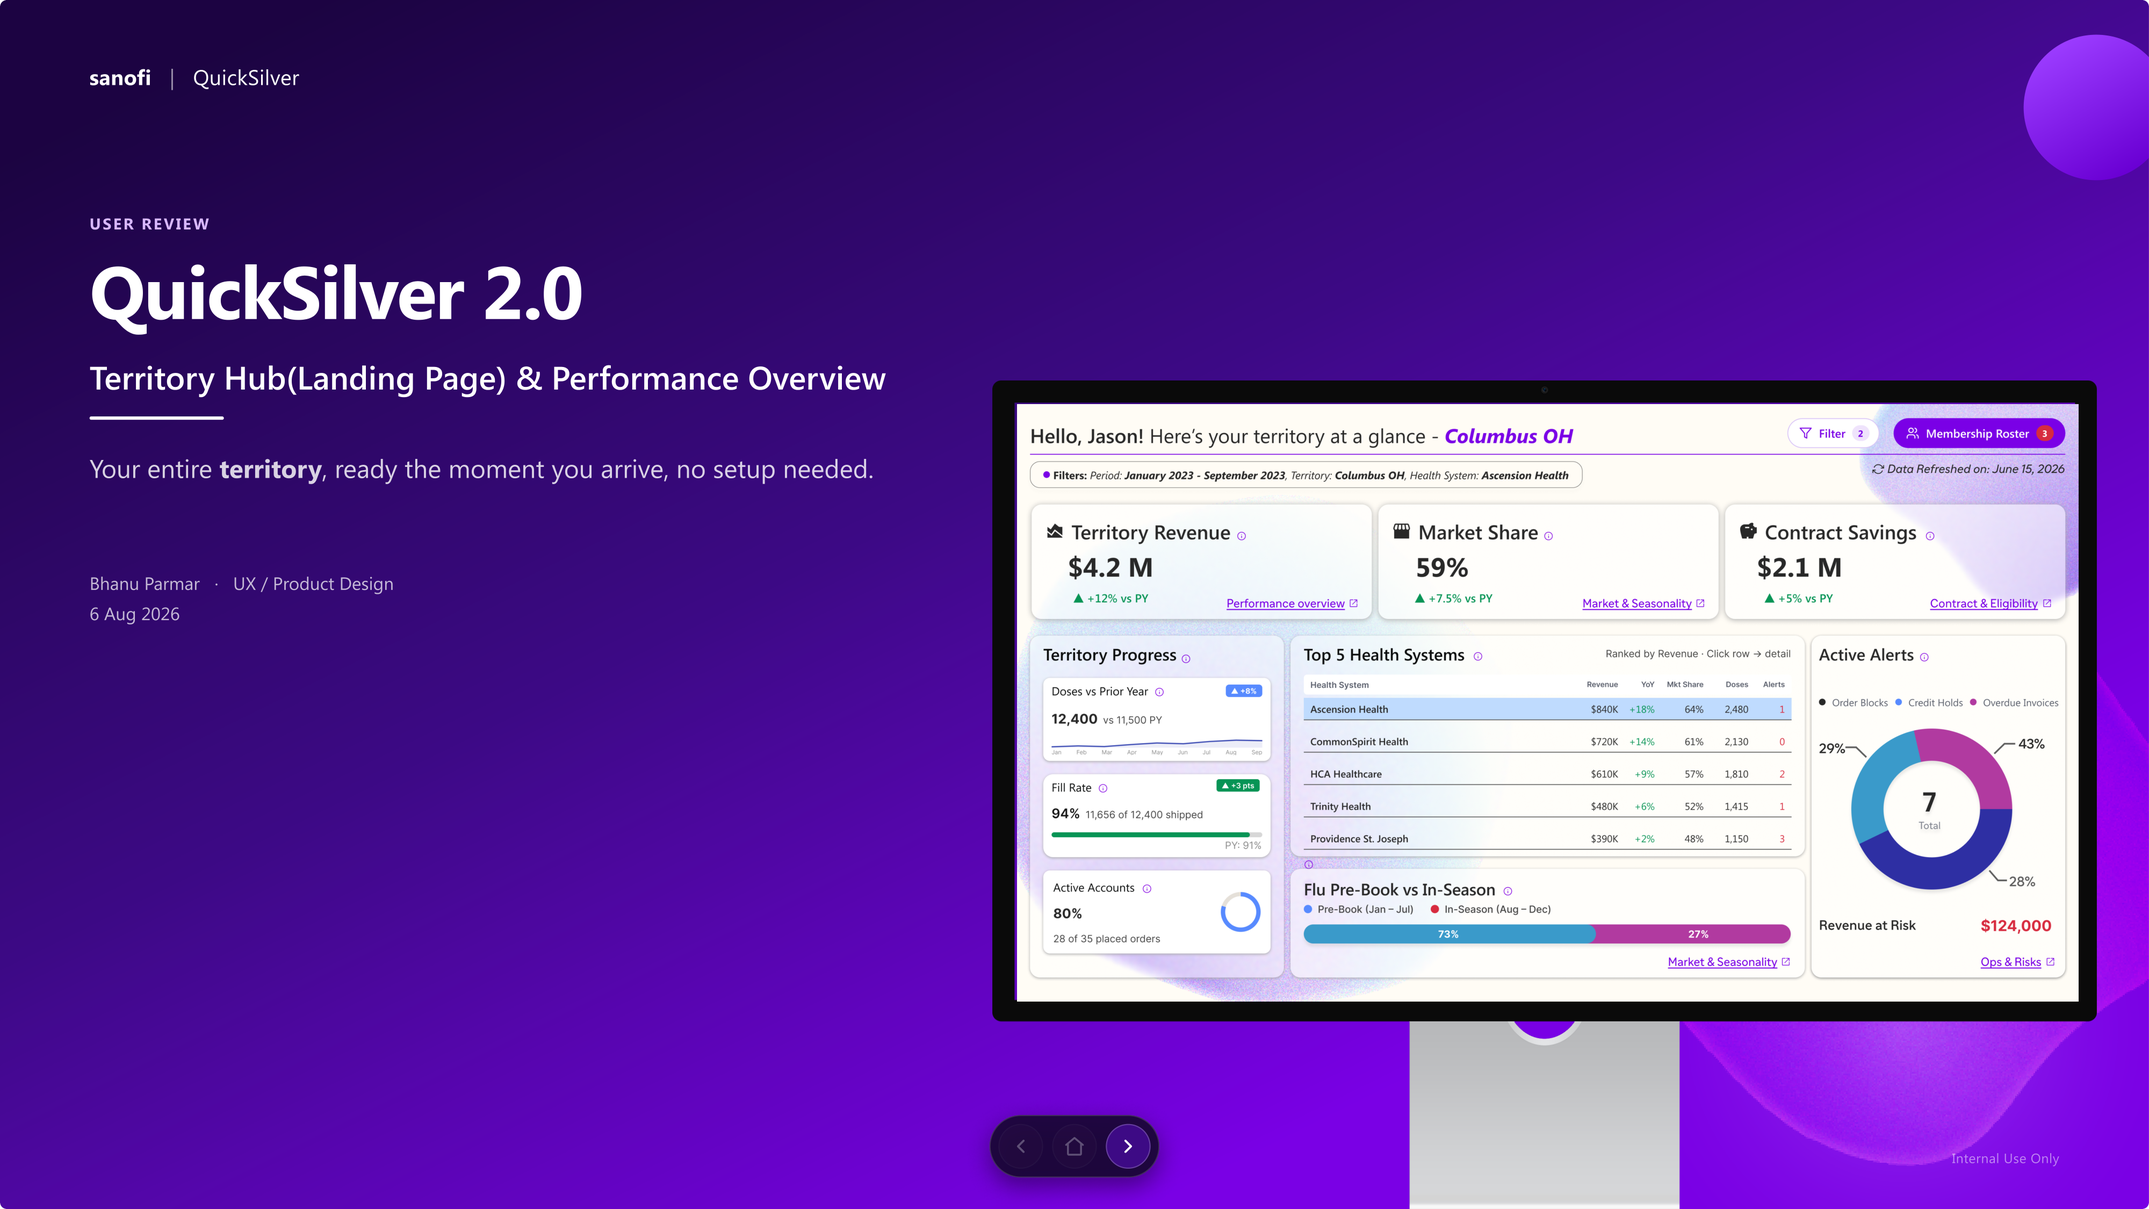
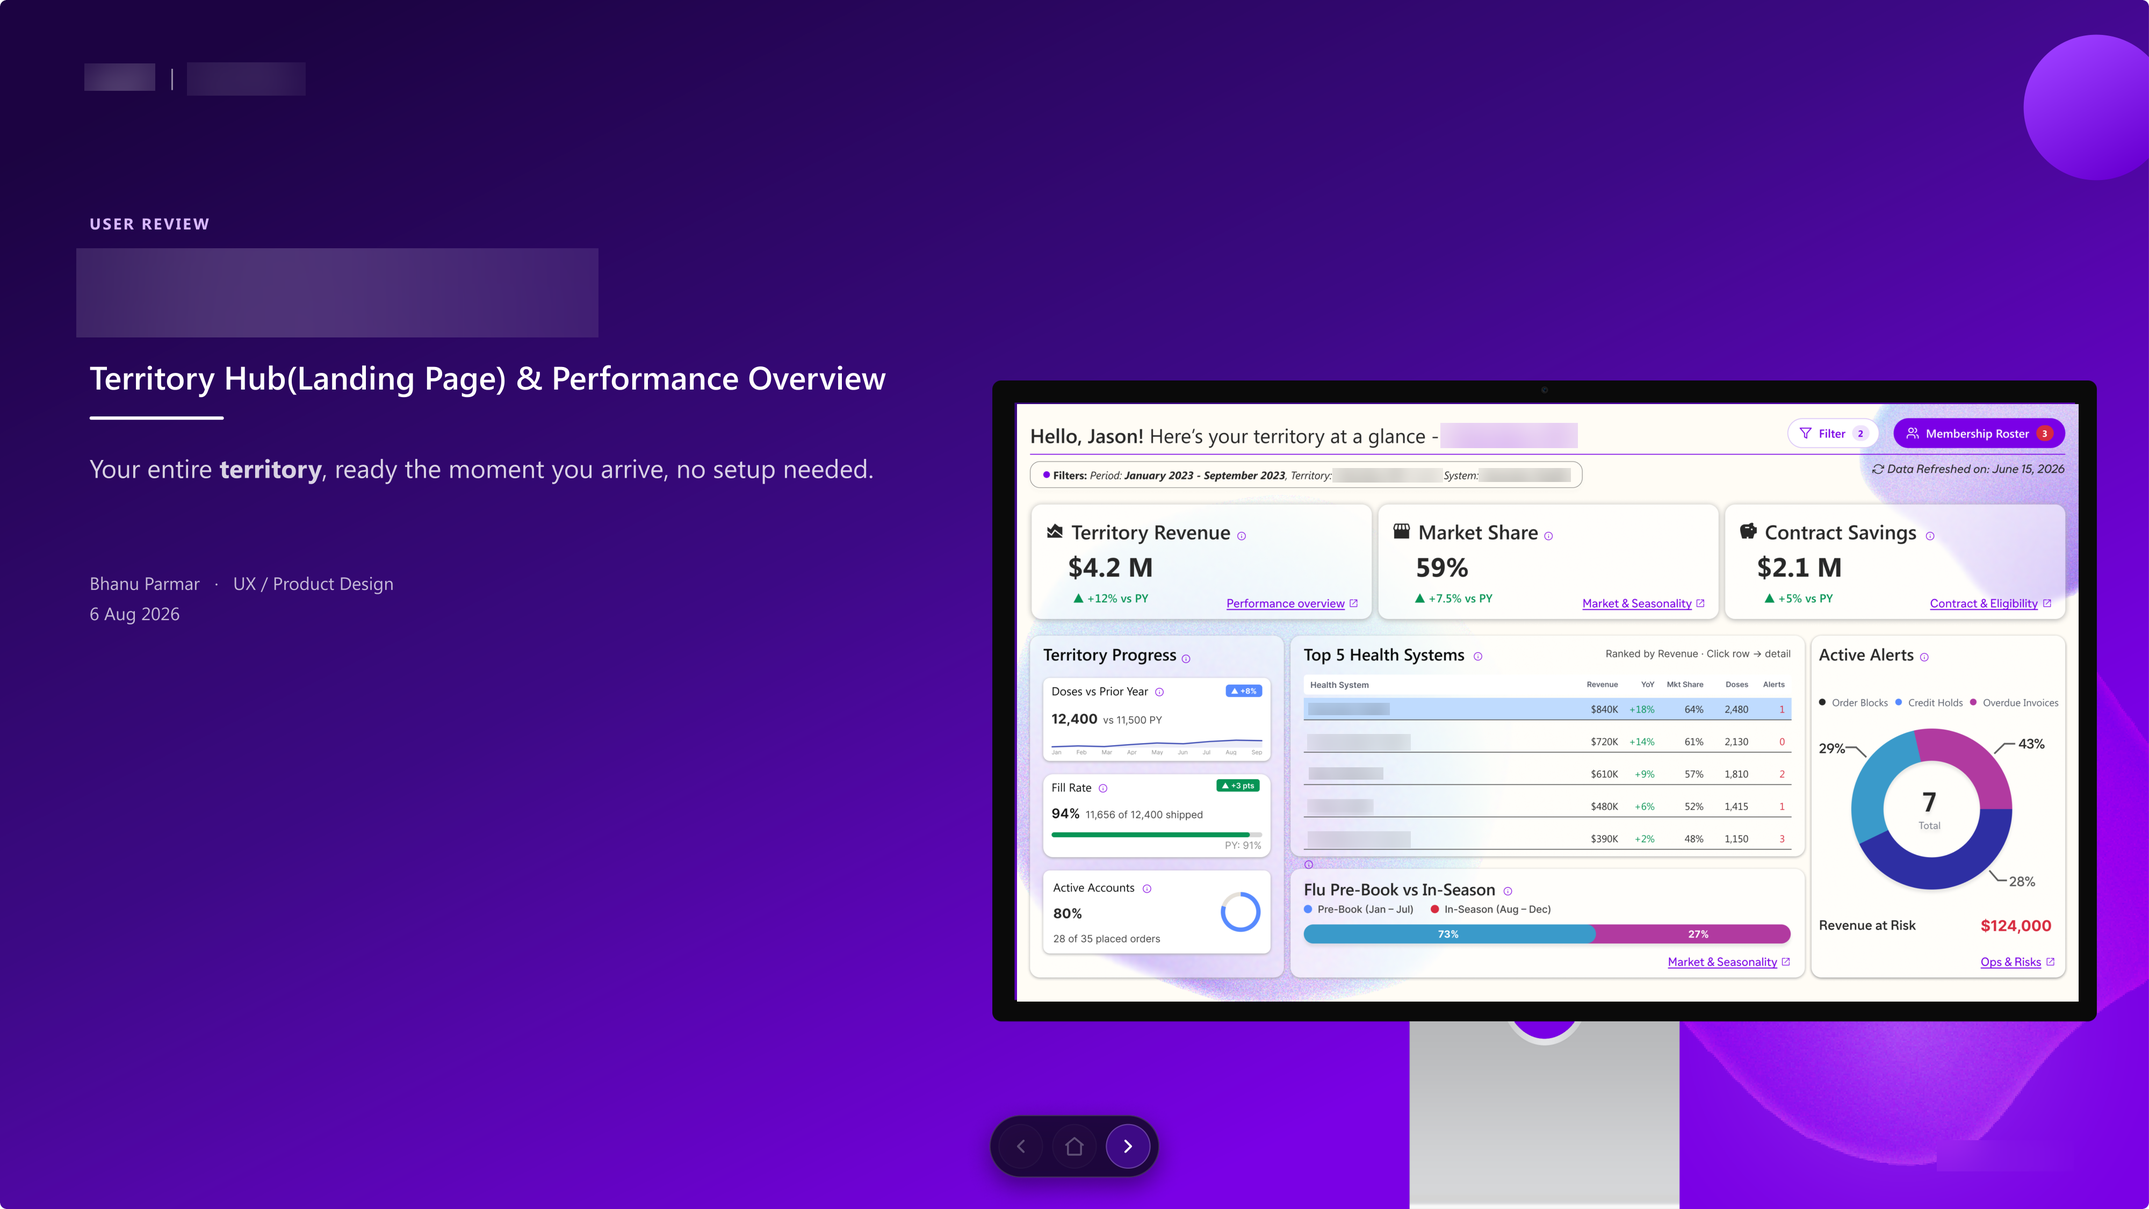
Anonymize QuickSilver case study: rename to Atlas, dummy client data, blur real names in images

diff --git a/src/components/MercuryDemo.tsx b/src/components/MercuryDemo.tsx
@@ -4,7 +4,7 @@ import React, { useCallback, useEffect, useRef, useState } from "react";
 import Image from "next/image";
 
 /* ─────────────────────────────────────────────────────────────
-   Mercury: scripted, interactive prototype of QuickSilver's
+   Mercury: scripted, interactive prototype of Atlas's
    AI assistant. No real model is called: answers are pre-written
    from the illustrative dashboard data, but the interaction
    (thinking steps, streaming, sources, follow-ups) behaves like
@@ -41,42 +41,42 @@ const S: Record<string, Scenario> = {
   alerts: {
     id: "alerts",
     question: "Which of my health systems have open alerts right now?",
-    thinking: ["Applied your filters: Columbus OH · Jan – Sep 2023", "Checked Top 5 Health Systems", "Checked Active Alerts"],
+    thinking: ["Applied your filters: Riverton, OH · Jan – Sep 2023", "Checked Top 5 Health Systems", "Checked Active Alerts"],
     reading:
-      "Top 5 health systems in Columbus OH with at least one active alert (order blocks, credit holds or overdue invoices), Jan – Sep 2023, ranked by revenue.",
+      "Top 5 health systems in Riverton, OH with at least one active alert (order blocks, credit holds or overdue invoices), Jan – Sep 2023, ranked by revenue.",
     answer:
-      "4 of your top 5 health systems have open alerts, 7 in total. Providence St. Joseph has the most (3); Ascension Health is your largest account with 1.",
+      "4 of your top 5 health systems have open alerts, 8 in total. Pinecrest Health has the most (3); Northfield Health is your largest account with 1.",
     blocks: [
       {
         kind: "table",
         head: ["Health system", "Alerts", "Revenue", "YoY"],
         rows: [
-          ["Ascension Health", "1", "$840K", "+18%"],
-          ["HCA Healthcare", "2", "$610K", "+9%"],
-          ["Trinity Health", "1", "$480K", "+6%"],
-          ["Providence St. Joseph", "3", "$390K", "+2%"],
+          ["Northfield Health", "1", "$620K", "+11%"],
+          ["Summit Care Group", "2", "$540K", "+7%"],
+          ["Lakeshore Health", "2", "$410K", "+5%"],
+          ["Pinecrest Health", "3", "$330K", "+3%"],
         ],
       },
     ],
     sources: ["Territory Hub · Top 5 Health Systems", "Active Alerts"],
     link: "Open in Operations & Risk",
-    followUps: ["How is Ascension Health performing vs prior year?", "What's the alert on Ascension about?"],
+    followUps: ["How is Northfield Health performing vs prior year?", "What's the alert on Northfield about?"],
   },
   yoy: {
     id: "yoy",
-    question: "How is Ascension Health performing vs prior year?",
-    title: "Ascension Health: account insights",
-    thinking: ["Read Performance Overview for Ascension Health", "Compared with prior year", "Checked alerts on Territory Hub"],
-    reading: "Ascension Health, Columbus OH, Jan – Sep 2023 compared with the same period last year.",
+    question: "How is Northfield Health performing vs prior year?",
+    title: "Northfield Health: account insights",
+    thinking: ["Read Performance Overview for Northfield Health", "Compared with prior year", "Checked alerts on Territory Hub"],
+    reading: "Northfield Health, Riverton, OH, Jan – Sep 2023 compared with the same period last year.",
     answer:
-      "Ascension Health is growing. Revenue is $840K (+12% vs prior year) and doses delivered are up 8%. Flu is the largest part of the mix, and there is 1 open alert to resolve before your next conversation.",
+      "Northfield Health is growing. Revenue is $620K (+11% vs prior year) and doses delivered are up 6%. Flu is the largest part of the mix, and there is 1 open alert to resolve before your next conversation.",
     blocks: [
       { kind: "badges", items: [{ label: "Growing", tone: "good" }, { label: "Confidence: medium", tone: "neutral" }] },
       {
         kind: "drivers",
         items: [
-          { text: "Revenue is $840K, up 12% vs prior year.", source: "Performance Overview" },
-          { text: "Flu leads the mix (32%), then COVID (22%) and RSV (16%).", source: "Product Mix" },
+          { text: "Revenue is $620K, up 11% vs prior year.", source: "Performance Overview" },
+          { text: "Flu leads the mix (34%), then COVID (21%) and RSV (15%).", source: "Product Mix" },
           { text: "Revenue peaks in Sep – Nov, the flu season.", source: "Revenue by Month" },
         ],
       },
@@ -90,16 +90,16 @@ const S: Record<string, Scenario> = {
     ],
     sources: ["Performance Overview", "Product Mix", "Territory Hub · Alerts"],
     link: "Add to PRT draft",
-    followUps: ["What's the alert on Ascension about?", "How is my flu pre-book tracking?"],
+    followUps: ["What's the alert on Northfield about?", "How is my flu pre-book tracking?"],
   },
   prebook: {
     id: "prebook",
     question: "How is my flu pre-book tracking this season?",
-    thinking: ["Applied your filters: Columbus OH · Jan – Sep 2023", "Checked Flu Pre-Book vs In-Season"],
-    reading: "Share of flu orders placed as pre-book (Jan – Jul) vs in-season (Aug – Dec) across Columbus OH.",
-    answer: "73% of your flu orders came in as pre-book and 27% in-season. Most of the season's volume is already locked in.",
+    thinking: ["Applied your filters: Riverton, OH · Jan – Sep 2023", "Checked Flu Pre-Book vs In-Season"],
+    reading: "Share of flu orders placed as pre-book (Jan – Jul) vs in-season (Aug – Dec) across Riverton, OH.",
+    answer: "68% of your flu orders came in as pre-book and 32% in-season. Most of the season's volume is already locked in.",
     blocks: [
-      { kind: "kpis", items: [{ value: "73%", label: "Pre-book (Jan – Jul)" }, { value: "27%", label: "In-season (Aug – Dec)" }] },
+      { kind: "kpis", items: [{ value: "68%", label: "Pre-book (Jan – Jul)" }, { value: "32%", label: "In-season (Aug – Dec)" }] },
     ],
     sources: ["Territory Hub · Flu Pre-Book vs In-Season"],
     link: "Open in Market & Seasonality",
@@ -107,34 +107,34 @@ const S: Record<string, Scenario> = {
   },
   recap: {
     id: "recap",
-    question: "meeting ascension in 10 min, quick recap?",
-    title: "Ascension Health: quick recap",
-    thinking: ["Found Ascension Health", "Pulled your PRT draft insights"],
-    reading: "A short recap of Ascension Health for a customer meeting, using the insights already in your PRT draft.",
+    question: "meeting northfield in 10 min, quick recap?",
+    title: "Northfield Health: quick recap",
+    thinking: ["Found Northfield Health", "Pulled your PRT draft insights"],
+    reading: "A short recap of Northfield Health for a customer meeting, using the insights already in your PRT draft.",
     answer: "",
     blocks: [
       { kind: "badges", items: [{ label: "Growing", tone: "good" }, { label: "Confidence: medium", tone: "neutral" }] },
-      { kind: "kpis", items: [{ value: "$840K", label: "Revenue · +12% vs PY" }, { value: "+8%", label: "Doses delivered vs PY" }] },
+      { kind: "kpis", items: [{ value: "$620K", label: "Revenue · +11% vs PY" }, { value: "+6%", label: "Doses delivered vs PY" }] },
       {
         kind: "bullets",
         items: [
-          "Flu leads the product mix (32%), then COVID (22%) and RSV (16%).",
+          "Flu leads the product mix (34%), then COVID (21%) and RSV (15%).",
           "Revenue peaks in Sep – Nov, the flu season.",
           "1 open operational alert, worth raising early.",
         ],
       },
-      { kind: "note", text: "Same insights as your PRT draft for Ascension Health." },
+      { kind: "note", text: "Same insights as your PRT draft for Northfield Health." },
     ],
-    sources: ["PRT draft · Ascension Health"],
+    sources: ["PRT draft · Northfield Health"],
     link: "Open PRT draft",
     followUps: ["whats the alert about"],
   },
   alertDetail: {
     id: "alertDetail",
-    question: "What's the alert on Ascension about?",
-    thinking: ["Used the Ascension Health context", "Checked Operations & Risk"],
-    reading: "The open operational alert on Ascension Health, from Operations & Risk.",
-    answer: "There is 1 open alert on Ascension Health:",
+    question: "What's the alert on Northfield about?",
+    thinking: ["Used the Northfield Health context", "Checked Operations & Risk"],
+    reading: "The open operational alert on Northfield Health, from Operations & Risk.",
+    answer: "There is 1 open alert on Northfield Health:",
     blocks: [
       {
         kind: "alert",
@@ -148,14 +148,14 @@ const S: Record<string, Scenario> = {
     ],
     sources: ["Operations & Risk"],
     link: "View in Operations & Risk",
-    followUps: ["How is Ascension Health performing vs prior year?"],
+    followUps: ["How is Northfield Health performing vs prior year?"],
   },
 };
 
 const STARTERS: Record<Mode, { label: string; id: string }[]> = {
   desk: [
     { label: "Which of my health systems need attention?", id: "alerts" },
-    { label: "How is Ascension Health performing vs prior year?", id: "yoy" },
+    { label: "How is Northfield Health performing vs prior year?", id: "yoy" },
     { label: "How is my flu pre-book tracking this season?", id: "prebook" },
   ],
   phone: [
@@ -174,7 +174,7 @@ function matchScenario(q: string, lastId: string | null): Scenario | null {
   if (t.includes("alert") || t.includes("attention") || t.includes("issue")) return t.includes("account") || lastId === "recap" ? S.alertDetail : S.alerts;
   if (t.includes("recap") || t.includes("meeting") || t.includes("prt")) return S.recap;
   if (t.includes("pre-book") || t.includes("prebook") || t.includes("pre book") || t.includes("flu") || t.includes("season")) return S.prebook;
-  if (t.includes("ascension") || t.includes("prior year") || t.includes("perform") || t.includes("yoy") || t.includes("growing")) return S.yoy;
+  if (t.includes("northfield") || t.includes("prior year") || t.includes("perform") || t.includes("yoy") || t.includes("growing")) return S.yoy;
   return null;
 }
 
@@ -468,7 +468,7 @@ export default function MercuryDemo() {
       </div>
       <div className="px-4 py-2 bg-[#F1EFF4] text-[11px] text-[#444] flex items-center gap-2">
         <span className="w-1.5 h-1.5 rounded-full bg-[#7A00E6]" />
-        Using your filters: Columbus OH · Jan – Sep 2023
+        Using your filters: Riverton, OH · Jan – Sep 2023
       </div>
 
       {/* Messages */}

diff --git a/src/app/work/atlas/page.tsx b/src/app/work/atlas/page.tsx
@@ -4,9 +4,9 @@ import MercuryDemo from "@/components/MercuryDemo";
 import React from "react";
 
 export const metadata: Metadata = {
-  title: "QuickSilver 2.0 KPI Dashboard - Bhanu Parmar",
+  title: "Atlas 2.0 KPI Dashboard - Bhanu Parmar",
   description:
-    "How I redesigned Sanofi's 11-page Power BI dashboard into a simple decision tool, working with 100+ stakeholders, and added Mercury, an AI assistant that answers questions in plain language.",
+    "How I redesigned a vaccine maker's 11-page Power BI dashboard into a simple decision tool, working with 100+ stakeholders, and added Mercury, an AI assistant that answers questions in plain language.",
 };
 
 /* ── tiny reusable blocks ── */
@@ -51,17 +51,17 @@ function BodyText({ children }: { children: React.ReactNode }) {
   return <p className="text-[#888888] leading-relaxed mb-4">{children}</p>;
 }
 
-export default function QuickSilverPage() {
+export default function AtlasPage() {
   return (
     <CaseStudyLayout
       number="CS 05"
-      title="QuickSilver 2.0"
-      subtitle="KPI Dashboard Redesign · Sanofi US Vaccines"
+      title="Atlas 2.0"
+      subtitle="KPI Dashboard Redesign · Helix Vaccines (name changed)"
       year="2026"
       role="UX & Product Designer (Sole Designer)"
       tools={["Figma", "FigJam", "Power BI", "Snowflake", "Claude AI", "AI / LLM UX"]}
       heroImage="/images/cs05/cover-territory-hub.png"
-      overview="I was the only designer on this project. Sanofi's sales teams had an 11-page Power BI dashboard that was hard to use, so I sat down with more than 100 people who use it, ran workshops, and watched them work. From that, I built personas, journeys and a new structure: one home page with four focused pages around it, each showing just what you need first. Then I designed Mercury, an AI assistant you can ask questions in plain words. It shows where every number comes from, and it works the same on your desk and on your phone."
+      overview="I was the only designer on this project. The sales team at a large vaccine maker (I'll call it Helix Vaccines) had an 11-page Power BI dashboard that was hard to use, so I sat down with more than 100 people who use it, ran workshops, and watched them work. From that, I built personas, journeys and a new structure: one home page with four focused pages around it, each showing just what you need first. Then I designed Mercury, an AI assistant you can ask questions in plain words. It shows where every number comes from, and it works the same on your desk and on your phone."
       challenge="The old dashboard had 11 pages and 69 KPIs, with no clear order. Pages followed how the database was built, not how people work. Every month, each account manager (SAM) took 26 manual steps just to put together one key customer document, because the dashboard didn't fit their real day."
       metrics={[
         { value: "100+", label: "Stakeholders Consulted" },
@@ -76,8 +76,8 @@ export default function QuickSilverPage() {
           highlight: "There was no research to start from, so I set it up and ran every session myself.",
           customContent: (
             <div className="flex flex-col gap-5 mt-4 mb-8">
-              <ProcessStep num="01" title="Workshops and brainstorming" desc="I brought SAMs, regional directors, product owners, data engineers and the Sapphire contract team into the same room." />
-              <ProcessStep num="02" title="Watching 100+ people work" desc="I watched SAMs use QuickSilver 1.0 while they prepared for real customer meetings. Not in a lab, at their desks." />
+              <ProcessStep num="01" title="Workshops and brainstorming" desc="I brought SAMs, regional directors, product owners, data engineers and the contract tool team into the same room." />
+              <ProcessStep num="02" title="Watching 100+ people work" desc="I watched SAMs use Atlas 1.0 while they prepared for real customer meetings. Not in a lab, at their desks." />
               <ProcessStep num="03" title="Finding the real questions" desc="Hundreds of data requests came down to 3 questions that every customer visit is built around." />
               <ProcessStep num="04" title="Auditing every KPI" desc="I listed all 69 KPIs across 7 screens. 14 were repeated, 2 were missing and 4 couldn't be built." />
               <ProcessStep num="05" title="Mapping the monthly report" desc="I mapped how SAMs build their PRT each month. The 26-step pain point became how we measured success." />
@@ -183,7 +183,7 @@ export default function QuickSilverPage() {
         /* ───────── CONTRACT ───────── */
         {
           label: "10 · Contract & Eligibility",
-          highlight: "A clear summary with a link out to Sapphire. I didn't rebuild a tool people already use.",
+          highlight: "A clear summary with a link out to the existing contract tool. I didn't rebuild a tool people already use.",
           image: "/images/cs05/contract-eligibility.png",
           imageAlt: "Contract & Eligibility",
           imageCaption: "Savings, spend breakdown, price per dose and contract performance.",
@@ -219,7 +219,7 @@ export default function QuickSilverPage() {
                 Even with the new layout, a SAM getting ready for a meeting still jumped between pages to piece the story together. So I designed Mercury. You ask it something the way you&rsquo;d ask a colleague, and it answers from your own territory data, telling you which page each number came from.
               </BodyText>
               <BodyText>
-                Try it below. Act 1 is Jason at his desk. Act 2 is Jason on his phone, ten minutes before he meets Ascension Health.
+                Try it below. Act 1 is Jason at his desk. Act 2 is Jason on his phone, ten minutes before he meets Northfield Health.
               </BodyText>
               <MercuryDemo />
               <p className="text-[#F5F5F5] text-sm font-bold mt-10 mb-3">The rules I designed it around</p>
@@ -239,7 +239,7 @@ export default function QuickSilverPage() {
                 ))}
               </div>
               <p className="font-mono text-[10px] text-[#888888] uppercase tracking-widest border-l-2 border-[#CC310E] pl-3 mt-6 leading-relaxed">
-                Concept · The data is made up and reused from the dashboard mockups. PRT fields and alert details are placeholders.
+                Concept · Client, product and customer names are changed or blurred, and all data is made up. PRT fields and alert details are placeholders.
               </p>
             </>
           ),
@@ -268,7 +268,7 @@ export default function QuickSilverPage() {
           highlight: "Everything I designed can be built with features Power BI already has.",
           content: [
             "Bookmarks for navigation, field parameters for changing columns, drillthrough for detail views and tooltip pages for hover details. All built into Power BI.",
-            "I followed Sanofi's visual style guide: brand purples, its chart colours, Segoe UI, and green and red only for up and down.",
+            "I followed the client's visual style guide: brand colours, its chart palette, Segoe UI, and green and red only for up and down.",
           ],
           image: "/images/cs05/design-vision.png",
           imageAlt: "Design vision",

diff --git a/src/components/Work.tsx b/src/components/Work.tsx
@@ -10,10 +10,10 @@ import Image from "next/image";
 const projects = [
   {
     number: "01",
-    title: "QuickSilver 2.0: KPI Dashboard Redesign",
-    subtitle: "Sanofi US Vaccines · Power BI Dashboard",
+    title: "Atlas 2.0: KPI Dashboard Redesign",
+    subtitle: "Global Vaccine Maker · Power BI Dashboard",
     tags: ["Product Design", "Dashboard", "Enterprise"],
-    href: "/work/quicksilver",
+    href: "/work/atlas",
     image: "/images/cs05/cover-territory-hub.png",
     year: "2026",
     accent: "Dashboard",
